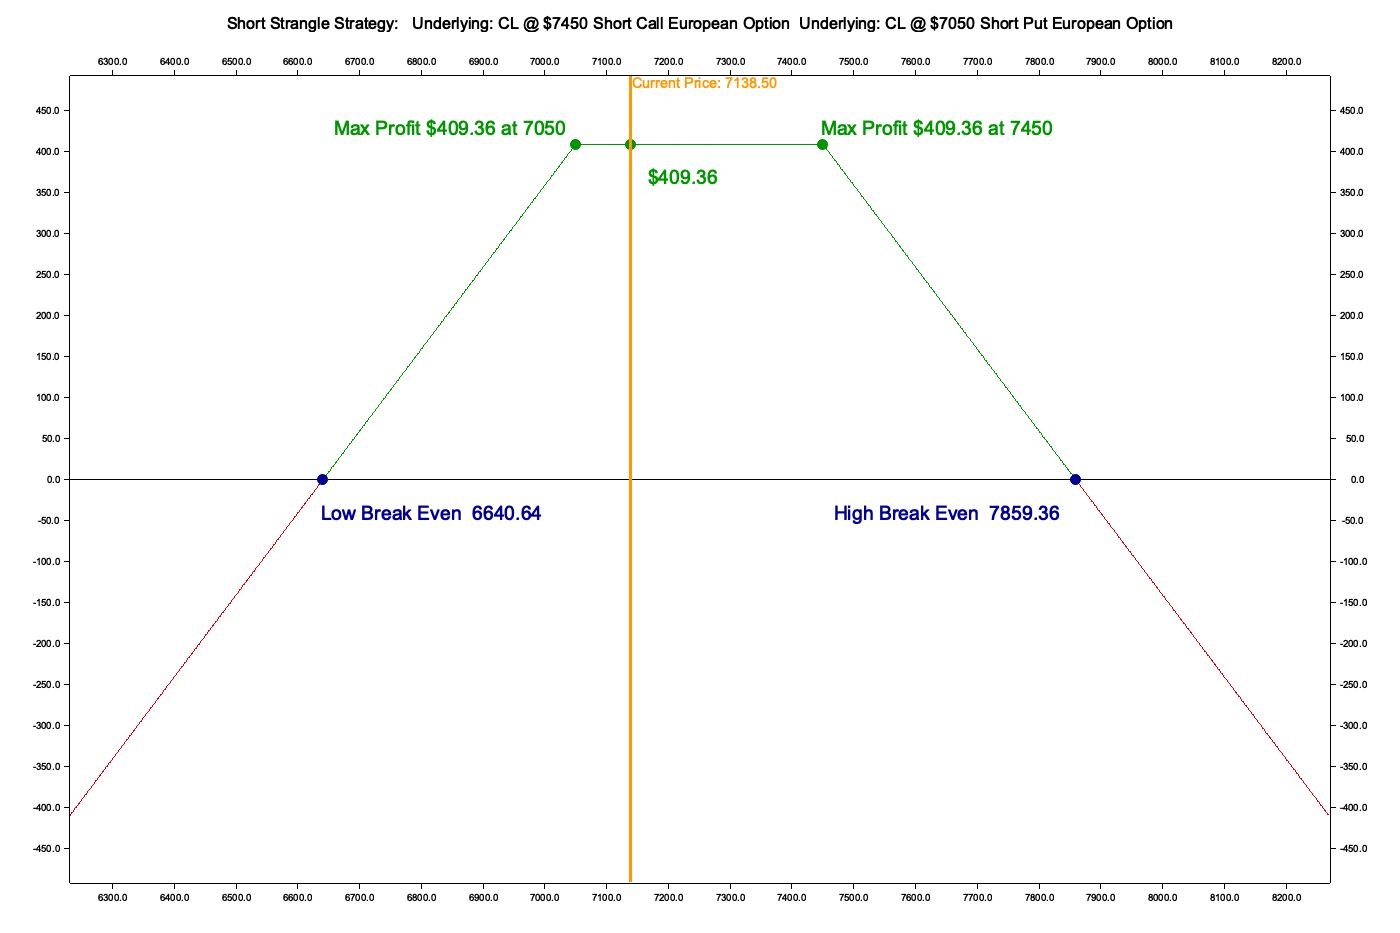
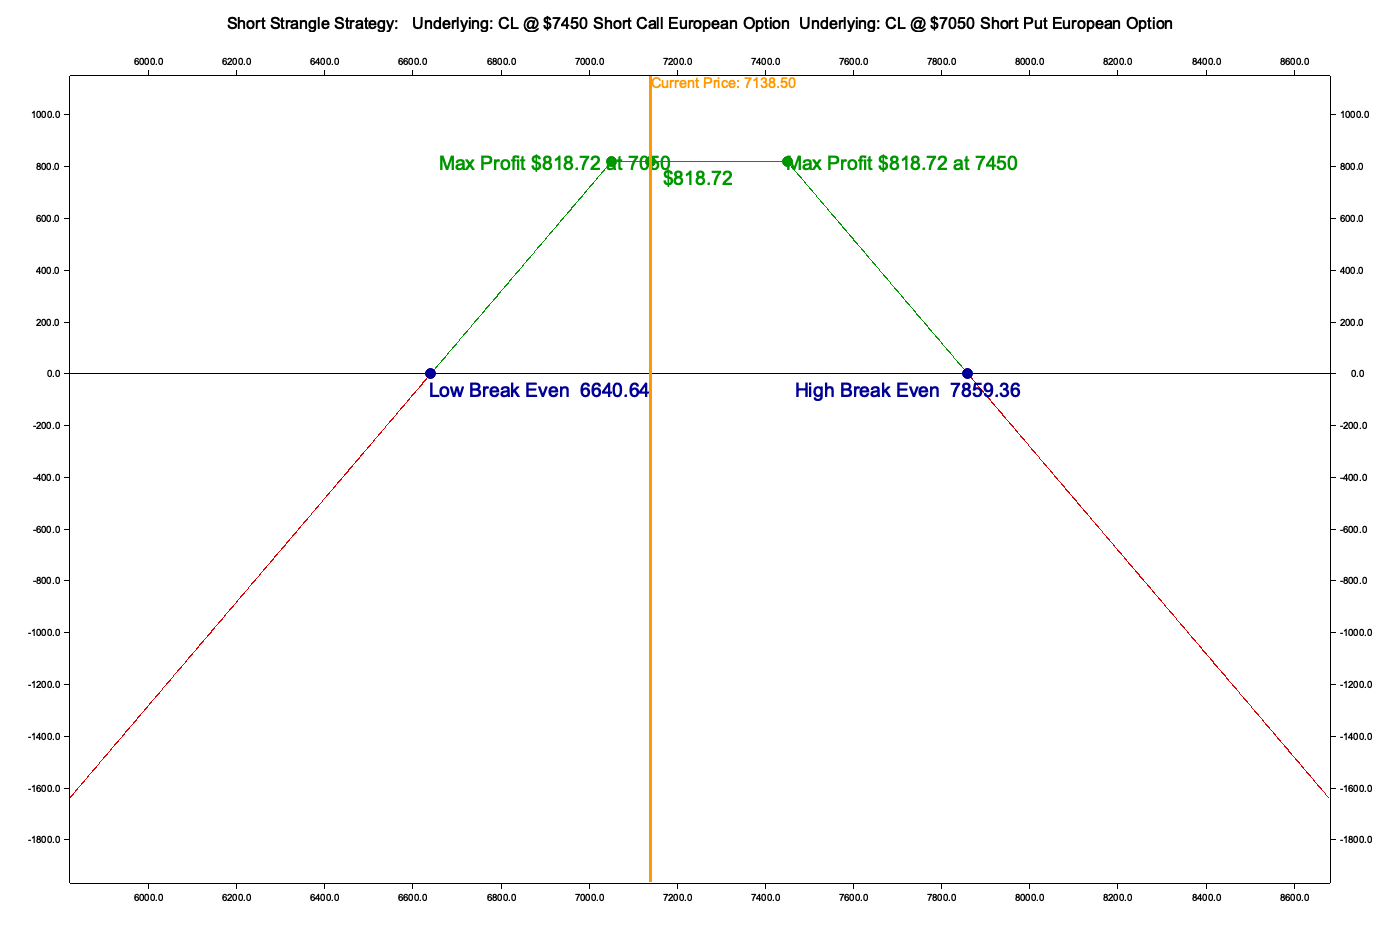
Adjust quantity to 2 and refine break-even calculations.
Updated `quantity` to 2 for both long and short strangles to better reflect test scenarios. Improved break-even point calculations by removing unnecessary conversions and ensuring rounding consistency. Corrected fees calculation logic and updated related test cases for accuracy. (ref. #83)

diff --git a/src/strategies/strangle.rs b/src/strategies/strangle.rs
@@ -140,11 +140,13 @@ impl ShortStrangle {
             .expect("Invalid position");
 
         let net_quantity = (short_call.option.quantity + short_put.option.quantity) / 2.0;
+        
         strategy.break_even_points.push(
-            put_strike - strategy.net_premium_received().unwrap().to_f64().unwrap() / net_quantity,
+            (put_strike - strategy.net_premium_received().unwrap() / net_quantity).round_to(2),
+            
         );
         strategy.break_even_points.push(
-            call_strike + strategy.net_premium_received().unwrap().to_f64().unwrap() / net_quantity,
+            (call_strike + strategy.net_premium_received().unwrap()/ net_quantity).round_to(2),
         );
         strategy.break_even_points.sort();
         strategy
@@ -202,14 +204,6 @@ impl Strategies for ShortStrangle {
 
     fn net_premium_received(&self) -> Result<Decimal, StrategyError> {
         let result = self.short_call.net_premium_received() + self.short_put.net_premium_received();
-        Ok(Decimal::from_f64(result).unwrap())
-    }
-
-    fn fees(&self) -> Result<Decimal, StrategyError> {
-        let result = self.short_call.open_fee
-            + self.short_call.close_fee
-            + self.short_put.open_fee
-            + self.short_put.close_fee;
         Ok(Decimal::from_f64(result).unwrap())
     }
 
@@ -732,11 +726,11 @@ impl LongStrangle {
 
         strategy
             .break_even_points
-            .push(put_strike - strategy.total_cost() / net_quantity);
+            .push((put_strike - strategy.total_cost() / net_quantity).round_to(2));
 
         strategy
             .break_even_points
-            .push(call_strike + strategy.total_cost() / net_quantity);
+            .push((call_strike + strategy.total_cost() / net_quantity).round_to(2));
 
         strategy.break_even_points.sort();
 
@@ -786,14 +780,6 @@ impl Strategies for LongStrangle {
 
     fn net_premium_received(&self) -> Result<Decimal, StrategyError> {
         Ok(Decimal::ZERO)
-    }
-
-    fn fees(&self) -> Result<Decimal, StrategyError> {
-        let result = self.long_call.open_fee
-            + self.long_call.close_fee
-            + self.long_put.open_fee
-            + self.long_put.close_fee;
-        Ok(Decimal::from_f64(result).unwrap())
     }
 
     fn profit_area(&self) -> Result<Decimal, StrategyError> {
@@ -1314,7 +1300,7 @@ is expected and the underlying asset's price is anticipated to remain stable."
     #[test]
     fn test_fees() {
         let strategy = setup();
-        let expected_fees = 0.4;
+        let expected_fees = 40.0;
         assert_eq!(strategy.fees().unwrap().to_f64().unwrap(), expected_fees);
     }
 
@@ -1650,7 +1636,7 @@ mod tests_long_strangle {
     #[test]
     fn test_fees() {
         let strategy = setup_long_strangle();
-        let expected_fees = 2.0; // 0.5 * 4 fees
+        let expected_fees = 20.0; // 0.5 * 4 fees * 10 qty
         assert_eq!(strategy.fees().unwrap().to_f64().unwrap(), expected_fees);
     }
 

diff --git a/examples/examples_strategies/src/bin/strategy_long_strangle.rs b/examples/examples_strategies/src/bin/strategy_long_strangle.rs
@@ -23,7 +23,7 @@ fn main() -> Result<(), Box<dyn Error>> {
         pos!(0.3745),   // implied_volatility
         dec!(0.05),     // risk_free_rate
         Positive::ZERO, // dividend_yield
-        pos!(1.0),      // quantity
+        pos!(2.0),      // quantity
         84.2,           // premium_short_call
         353.2,          // premium_short_put
         7.0,            // open_fee_short_call

diff --git a/examples/examples_strategies/src/bin/strategy_short_strangle.rs b/examples/examples_strategies/src/bin/strategy_short_strangle.rs
@@ -24,7 +24,7 @@ fn main() -> Result<(), Box<dyn Error>> {
         pos!(0.3745),   // implied_volatility
         dec!(0.05),     // risk_free_rate
         Positive::ZERO, // dividend_yield
-        pos!(1.0),      // quantity
+        pos!(2.0),      // quantity
         84.2,           // premium_short_call
         353.2,          // premium_short_put
         7.01,           // open_fee_short_call
